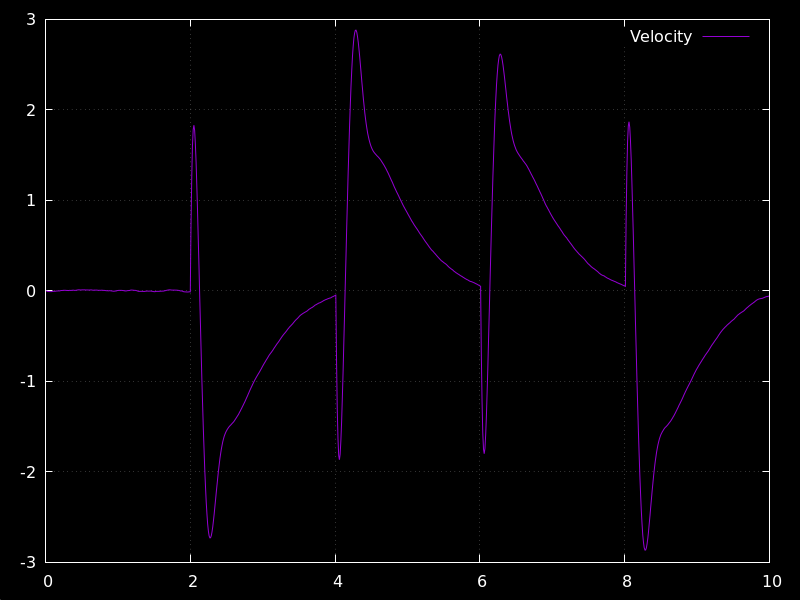
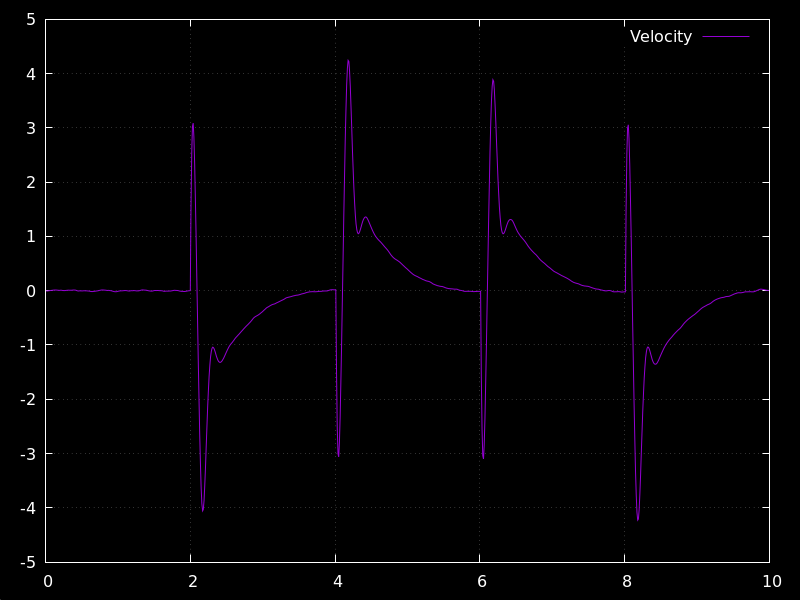
updated plots

diff --git a/src/main.c b/src/main.c
@@ -39,11 +39,11 @@ int main(){
   //Write column titles
   fprintf(fpt, "Time,Pos_X,Vel_X,Angle,Force,Setpoint,ERROR\n");
 
-  state_t x = {0,0,-1e-3,0};                    //State Vector {x_pos, x_vel, theta, angular_velocity}
+  state_t x = {0,0,-1e-3,0};                //State Vector {x_pos, x_vel, theta, angular_velocity}
   state_t x_est = {0,0,0,0};                //State Estimation Vector
-  state_t next_state = {0,0,0,0};
+  state_t next_state = {0,0,0,0};           //Next State Vector
   state_t y = {0,0,0,0};                    //Measurement Vector
-  const double *K = gain_settings(K2);  //Gain Vector
+  const double *K = gain_settings(K3);      //Gain Vector
   double u = 0;                             //Input force 
 
   //State Process Noise
@@ -59,9 +59,9 @@ int main(){
       noise.arr[i] = gaussian_generator(0, noise_std_dev[i]);
     }       
 
-    if((time >= 2) && (time < 4)){setpoint.pendulum.x = -1.5;}
+    if((time >= 2) && (time < 4)){setpoint.pendulum.x = -1;}
     if((time >= 4) && (time < 6)){setpoint.pendulum.x =  0.0;}
-    if((time >= 6) && (time < 8)){setpoint.pendulum.x =  1.5;}
+    if((time >= 6) && (time < 8)){setpoint.pendulum.x =  1;}
     if((time >= 8) && (time < 10)){setpoint.pendulum.x = 0.0;}
     //setpoint.pendulum.x += dt;
 
@@ -71,7 +71,7 @@ int main(){
       u -= K[i]*(x.arr[i] - setpoint.arr[i]);
     }
 
-    rk4_step(&x, &next_state, pendulum_params, u, dt, true);
+    rk4_step(&x, &next_state, pendulum_params, u, dt, ENABLE_DAMPING);
 
     fprintf(fpt, "%lf,%lf,%lf,%lf,%lf,%lf,%lf\n", time, 
       x.pendulum.x, x.pendulum.x_dot, x.pendulum.theta, u, 
